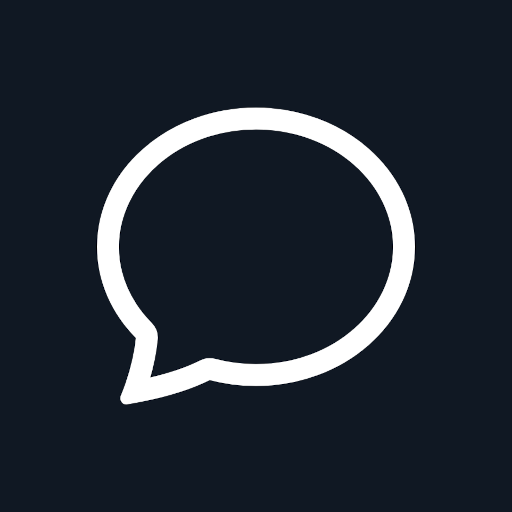
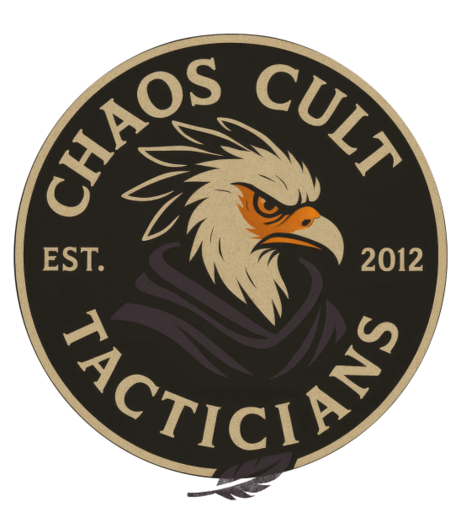
PWA fix

diff --git a/packages/client/vite.config.ts b/packages/client/vite.config.ts
@@ -37,9 +37,9 @@ export default defineConfig({
         enabled: true,
       },
       manifest: {
-        name: "Stoat",
-        short_name: "Stoat",
-        description: "User-first open source chat platform.",
+        name: "CCT",
+        short_name: "CCT",
+        description: "Chaos Cult Tacticians",
         categories: ["communication", "chat", "messaging"],
         start_url: base,
         orientation: "any",
@@ -51,23 +51,18 @@ export default defineConfig({
           {
             src: `${base}assets/web/android-chrome-192x192.png`,
             type: "image/png",
-            sizes: "192x192",
+            sizes: "173x192",
           },
           {
             src: `${base}assets/web/android-chrome-512x512.png`,
             type: "image/png",
-            sizes: "512x512",
-          },
-          {
-            src: `${base}assets/web/monochrome.svg`,
-            type: "image/svg+xml",
-            sizes: "48x48 72x72 96x96 128x128 256x256",
-            purpose: "monochrome",
+            sizes: "461x512",
+            purpose: "any",
           },
           {
             src: `${base}assets/web/masking-512x512.png`,
             type: "image/png",
-            sizes: "512x512",
+            sizes: "461x512",
             purpose: "maskable",
           },
         ],